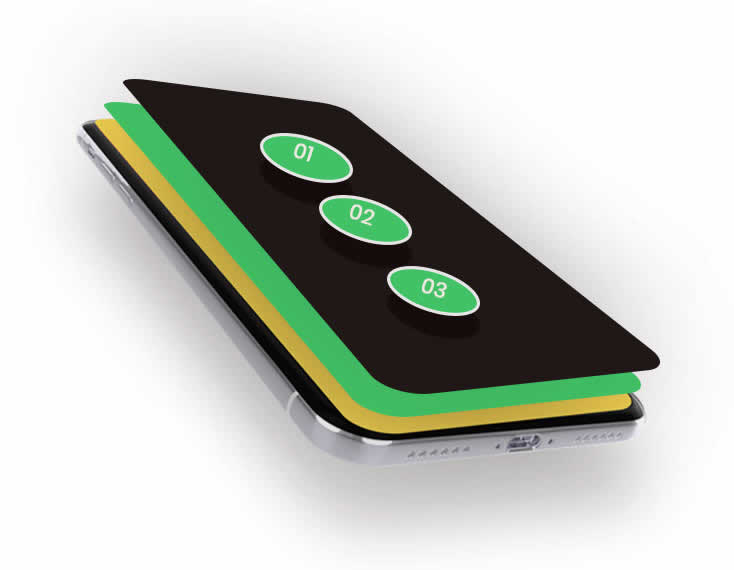
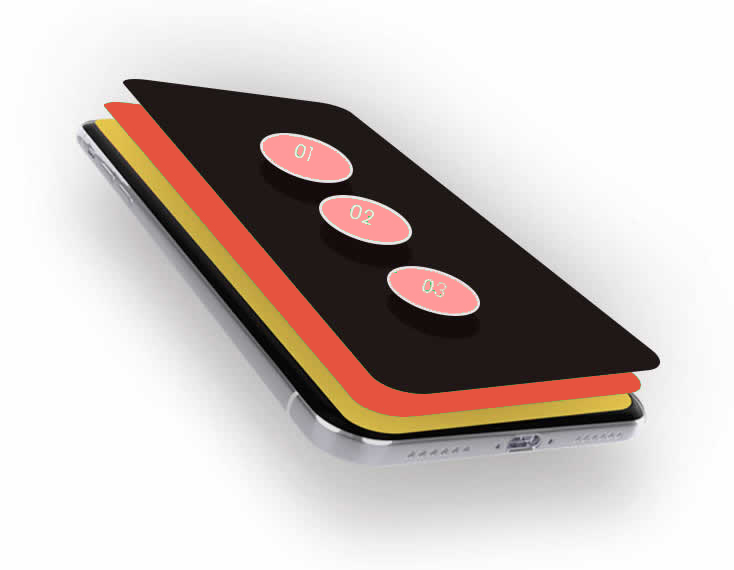
commits

Changed region(s): [[0.1199, 0.1789, 0.8692, 0.7456], [0.3597, 0.2386, 0.5695, 0.4474], [0.5095, 0.4474, 0.6594, 0.5667]]

diff --git a/index.html b/index.html
@@ -250,7 +250,7 @@
             <div class="row">
                <div class="col-md-12">
                   <div class="titlepage">
-                     <h2>Frequently Asked <span class="white"> Questions</span></h2>
+                     <h2>Preguntas <span class="rosadotext"> Frecuentes</span></h2>
                   </div>
                </div>
             </div>
@@ -266,51 +266,50 @@
                   <div class="ask_box">
                      <div class="simpaly">
                         <div class="slider"><span>+</span><a href="#">
-                           Why is simply dummy text of the printing my text of the</a>
+                           Realizan Todo tipos de encargos</a>
                         </div>
                         <div class="content">
-                           <p> It is a long established fact that a reader will be distracted by the readable content of a page when looking at its l
-                              ore-or-less normal distribution of letters, as opposed to using 'Content here, content here', making it look like readable English. Many desktop publishing packages 
+                           <p> Trabajos bajo pedidos, mediante la página web, con empresas que se muestran en la app con sus productos respectivos.
                            </p>
                         </div>
                      </div>
                      <div class="simpaly">
                         <div class="slider"><span>+</span><a href="#">
-                           Why is simply dummy text of the printing my text of the</a>
+                           Puede una obtener los servicios Delivery</a>
                         </div>
                         <div class="content">
-                           <p> It is a long established fact that a reader will be distracted by the readable content of a page when looking at its l
-                              ore-or-less normal distribution of letters, as opposed to using 'Content here, content here', making it look like readable English. Many desktop publishing packages 
+                           <p>Poner se en contacto con el administrador de la app, el cual se puede comunicar mediante a correo, abajo se mostrará un formulario.
                            </p>
                         </div>
                      </div>
                      <div class="simpaly">
                         <div class="slider"><span>+</span><a href="#">
-                           Why is simply dummy text of the printing my text of the</a>
+                           ¿Las transferencias son seguras?</a>
                         </div>
                         <div class="content">
-                           <p> It is a long established fact that a reader will be distracted by the readable content of a page when looking at its l
-                              ore-or-less normal distribution of letters, as opposed to using 'Content here, content here', making it look like readable English. Many desktop publishing packages 
+                           <p> 
+                              Contamos con pagos mediante tarjeta o pago en efectivo. 
                            </p>
                         </div>
                      </div>
                      <div class="simpaly">
                         <div class="slider"><span>+</span><a href="#">
-                           Why is simply dummy text of the printing my text of the</a>
+                           ¿Tienen descuentos?</a>
                         </div>
                         <div class="content">
-                           <p> It is a long established fact that a reader will be distracted by the readable content of a page when looking at its l
-                              ore-or-less normal distribution of letters, as opposed to using 'Content here, content here', making it look like readable English. Many desktop publishing packages 
+                           <p> 
+                              Contamos con promociones, descuentos, tanto en los productos como en las entregas.
                            </p>
                         </div>
                      </div>
                      <div class="simpaly">
                         <div class="slider"><span>+</span><a href="#">
-                           Why is simply dummy text of the printing my text of the</a>
+                           ¿Tiene servicios 24 horas?
+                           </a>
                         </div>
                         <div class="content">
-                           <p> It is a long established fact that a reader will be distracted by the readable content of a page when looking at its l
-                              ore-or-less normal distribution of letters, as opposed to using 'Content here, content here', making it look like readable English. Many desktop publishing packages 
+                           <p> 
+                              Contamos con un horario de 8:00 am a 9:00 pm.
                            </p>
                         </div>
                      </div>
@@ -327,12 +326,11 @@
             <div class="row">
                <div class="col-md-6">
                   <div class="titlepage">
-                     <h2>Contact <span class="white">Us</span></h2>
+                     <h2>Contáctanos </h2>
                   </div>
                   <div class="cont">
-                     <span>Now Started 
-                     Download </br>
-                     Free Landing page</span>
+                     <span>Descargas App móvil </br>
+                        Aún no disponibles</span>
                      <a href="#">Download</a>
                   </div>
                </div>
@@ -340,20 +338,20 @@
                   <form class="main_form">
                      <div class="row">
                         <div class="col-sm-12">
-                           <input class="contactus" placeholder="Full Name" type="text" name="
-                              Full Name">
+                           <input class="contactus" placeholder="Nombre Completo" type="text" name="
+                              Nombre Completo">
                         </div>
                         <div class="col-sm-12">
-                           <input class="contactus" placeholder="Email" type="text" name=" Email">
+                           <input class="contactus" placeholder="Correo electrónico" type="text" name=" Correo electrónico">
                         </div>
                         <div class="col-sm-12">
-                           <input class="contactus" placeholder="Phone" type="text" name="Phone">
+                           <input class="contactus" placeholder="Numero Telefonico" type="text" name="Numero Telefonico">
                         </div>
                         <div class="col-sm-12">
-                           <textarea class="textarea" placeholder="Message" type="text" name="Message"></textarea>
+                           <textarea class="textarea" placeholder="Mensaje" type="text" name="Mensaje"></textarea>
                         </div>
                         <div class="col-sm-12">
-                           <button class="send">Send</button>
+                           <button class="send">Enviar</button>
                         </div>
                      </div>
                   </form>

diff --git a/css/style.css b/css/style.css
@@ -646,7 +646,7 @@ ul.costomer li a {
      cursor: pointer;
      font-size: 30px;
      line-height: 29px;
-     color: #41c365;
+     color: #FF9999;
 }
 
 .asked_main .ask_box {
@@ -657,7 +657,7 @@ ul.costomer li a {
 
 .simpaly {
      padding: 10px 10px 10px 20px;
-     border: #41c365 solid 2px;
+     border: #FF9999 solid 2px;
      margin-bottom: 20px;
 }
 
@@ -674,26 +674,15 @@ ul.costomer li a {
 .slider {
      font: 1.1em 'News Cycle', sans-serif;
      padding: 1%;
-     background: #999;
      color: #fff;
      margin-bottom: 1%;
-     span {
-          margin-right: 0.3%;
-     }
-     a {
-          text-decoration: none;
-          color: #fff;
-     }
 }
 
 .content {
      font: 1em 'News Cycle', sans-serif;
      padding: 1%;
-     p {
-          margin-bottom: 1%;
-     }
 }
-
+.rosadotext{color: #E6533F;}
 
 /** end Asked section **/
 
@@ -748,7 +737,7 @@ ul.costomer li a {
 .contact .main_form .send {
      font-size: 16px;
      transition: ease-in all 0.5s;
-     background-color: #000;
+     background-color: #FF9999;
      color: #fff;
      padding: 12px 70px;
      margin: 0 auto;
@@ -756,7 +745,7 @@ ul.costomer li a {
 }
 
 .contact .main_form .send:hover {
-     background-color: #41c365;
+     background-color: #E6533F;
      transition: ease-in all 0.5s;
      color: #fff;
 }
@@ -792,8 +781,8 @@ ul.costomer li a {
 .cont a {
      font-size: 20px;
      transition: ease-in all 0.5s;
-     background-color: #fff;
-     color: #41c365;
+     background-color: #FFB441;
+     color: #fff;
      width: 100%;
      max-width: 275px;
      padding: 7px 0px;
@@ -802,9 +791,9 @@ ul.costomer li a {
 }
 
 .cont a:hover {
-     background-color: #41c365;
+     background-color: #fff;
      transition: ease-in all 0.5s;
-     color: #fff;
+     color: #FFB441;
 }
 
 
